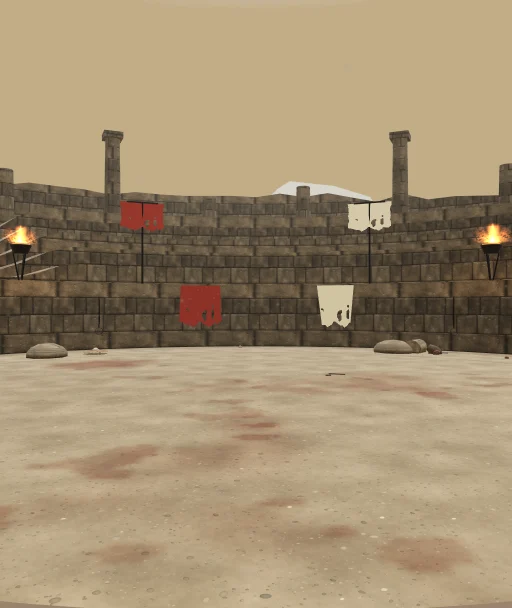
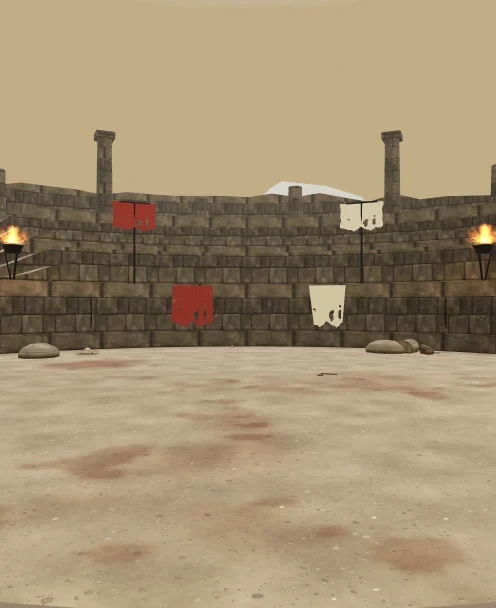
Pit arena stills: 496 x 608 for the narrowed gate (plane 2.2 x 2.7 m)
Pit's PR-A narrows the gate opening to 1.8 x 2.3 m for GPT's round arch, so the baked plane (opening + 0.4 m) is 2.2 x 2.7 m. The five stills are
cropped 8 px off each side (no re-bake, framing as approved), the generator crops the same way for future bakes, and the test reads the size
from either a VP8X or a bare VP8 header.

diff --git a/tests/pit-arena-stills.test.ts b/tests/pit-arena-stills.test.ts
@@ -1,4 +1,4 @@
-// The Pit's arena stills (Lead 2026-09-30, Dom's phone test item 1): behind the gate the player sees the arena of his next fight. One 512 x 608
+// The Pit's arena stills (Lead 2026-09-30, Dom's phone test item 1): behind the gate the player sees the arena of his next fight. One 496 x 608
 // WebP per arena theme (scripts/pit-arena-stills.mjs), so a new arena without its still, or a still with no arena, fails here.
 import test from 'node:test';
 import assert from 'node:assert/strict';
@@ -7,16 +7,17 @@ import { ARENA_THEMES } from '../src/arena-themes.ts';
 
 const dir = new URL('../public/pit/arena/', import.meta.url);
 
-test('every arena theme has exactly one 512 x 608 lossy WebP still under 60 KB, and nothing else is in the folder', () => {
+test('every arena theme has exactly one 496 x 608 lossy WebP still under 60 KB, and nothing else is in the folder', () => {
   const files = readdirSync(dir).sort();
   assert.deepEqual(files, Object.keys(ARENA_THEMES).map((k) => `${k}.webp`).sort(), 'one still per arena key');
   for (const file of files) {
     const b = readFileSync(new URL(file, dir));
     assert.equal(b.toString('latin1', 0, 4), 'RIFF', `${file}: RIFF`); assert.equal(b.toString('latin1', 8, 12), 'WEBP', `${file}: WEBP`);
-    const chunks: string[] = [];   // Chromium's encoder writes VP8X (canvas size), ICCP (sRGB) and one VP8 chunk: a lossy still, no alpha
+    const chunks: string[] = [];   // Chromium's encoder writes VP8X (canvas size), ICCP (sRGB) and one VP8 chunk; sharp (the crop) writes the bare VP8 chunk: a lossy still, no alpha either way
     for (let p = 12; p < b.length;) { const n = b.readUInt32LE(p + 4); chunks.push(b.toString('latin1', p, p + 4)); p += 8 + n + (n & 1); }
     assert.equal(chunks.at(-1), 'VP8 ', `${file}: a lossy (VP8) still, chunks ${chunks}`); assert.ok(!chunks.includes('ALPH'), `${file}: opaque`);
-    assert.deepEqual([1 + b.readUIntLE(24, 3), 1 + b.readUIntLE(27, 3)], [512, 608], `${file}: 512 x 608, the Pit's 2.6 x 3.1 m plane`);
+    const size = chunks[0] === 'VP8X' ? [1 + b.readUIntLE(24, 3), 1 + b.readUIntLE(27, 3)] : [b.readUInt16LE(26) & 0x3fff, b.readUInt16LE(28) & 0x3fff];   // VP8X canvas size, or the VP8 frame header's 14-bit width and height
+    assert.deepEqual(size, [496, 608], `${file}: 496 x 608, the Pit's 2.2 x 2.7 m plane (the gate opening 1.8 x 2.3 m + 0.4)`);
     assert.ok(b.length < 60_000, `${file}: ${b.length} B`);
   }
 });
